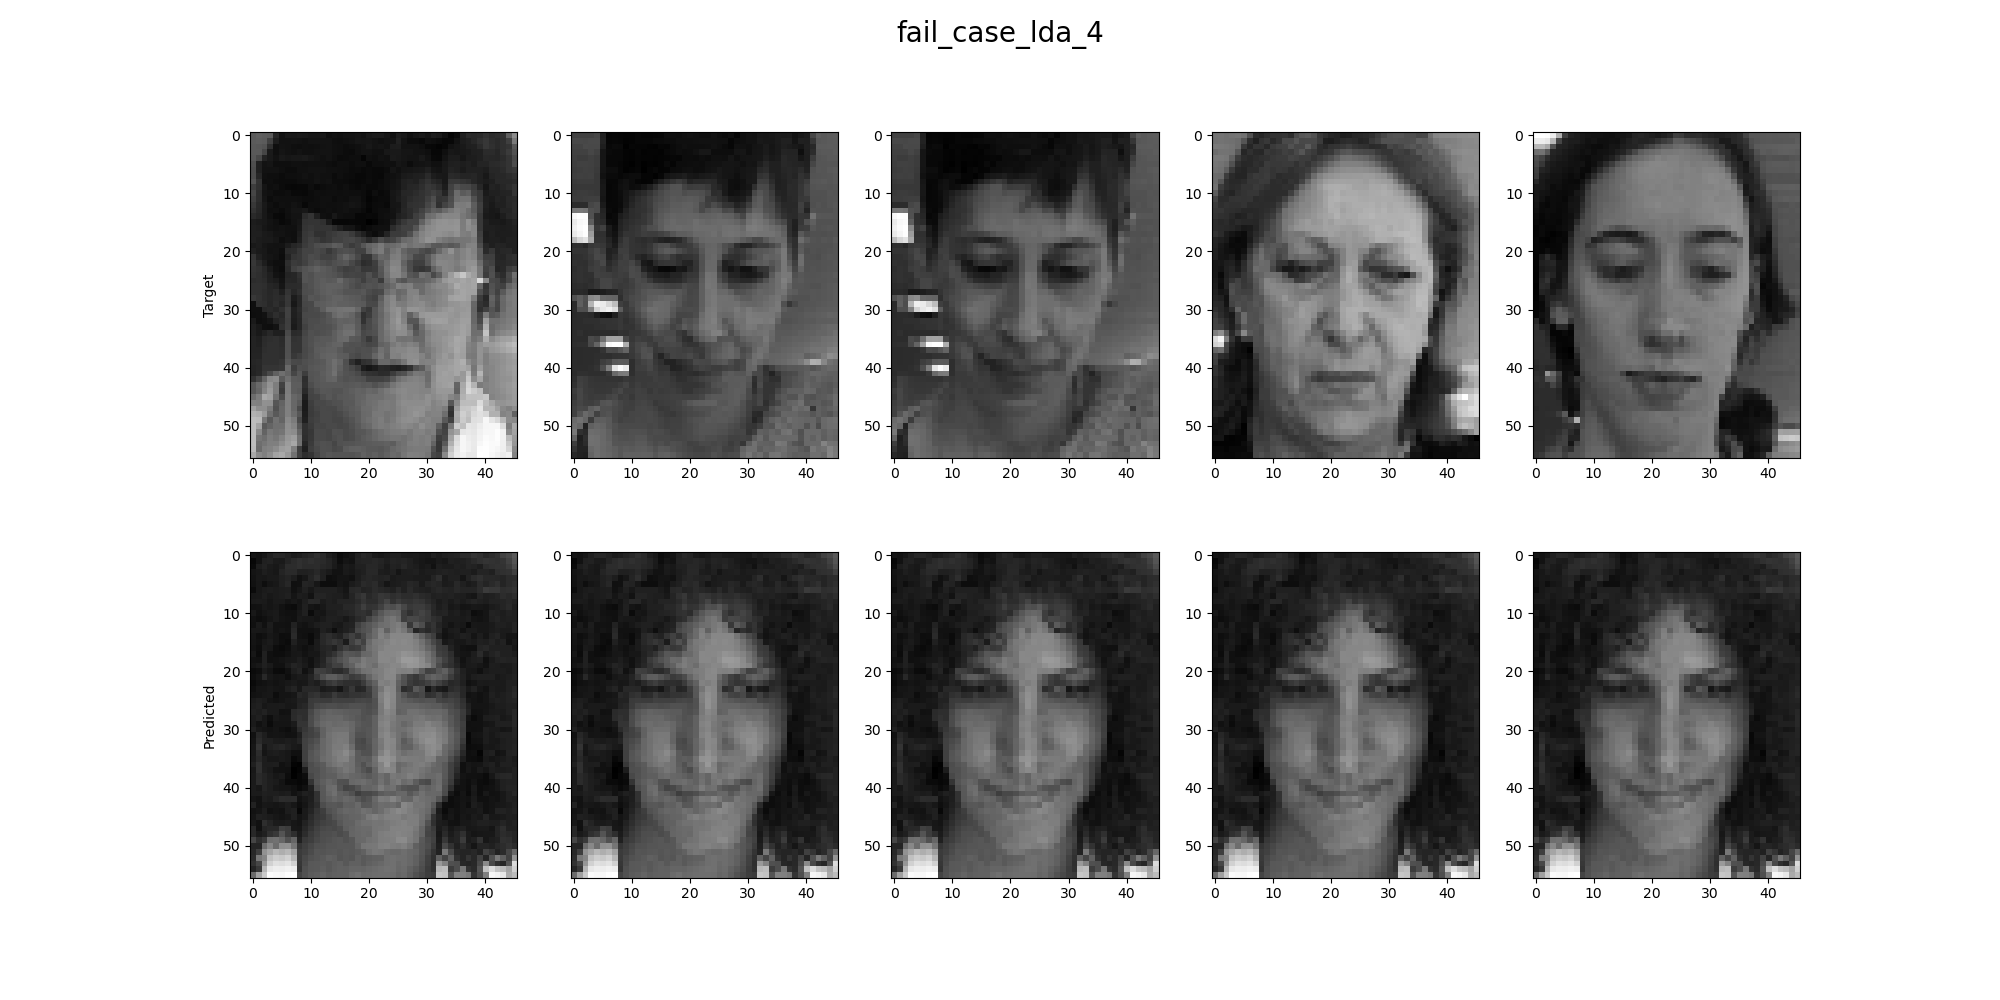
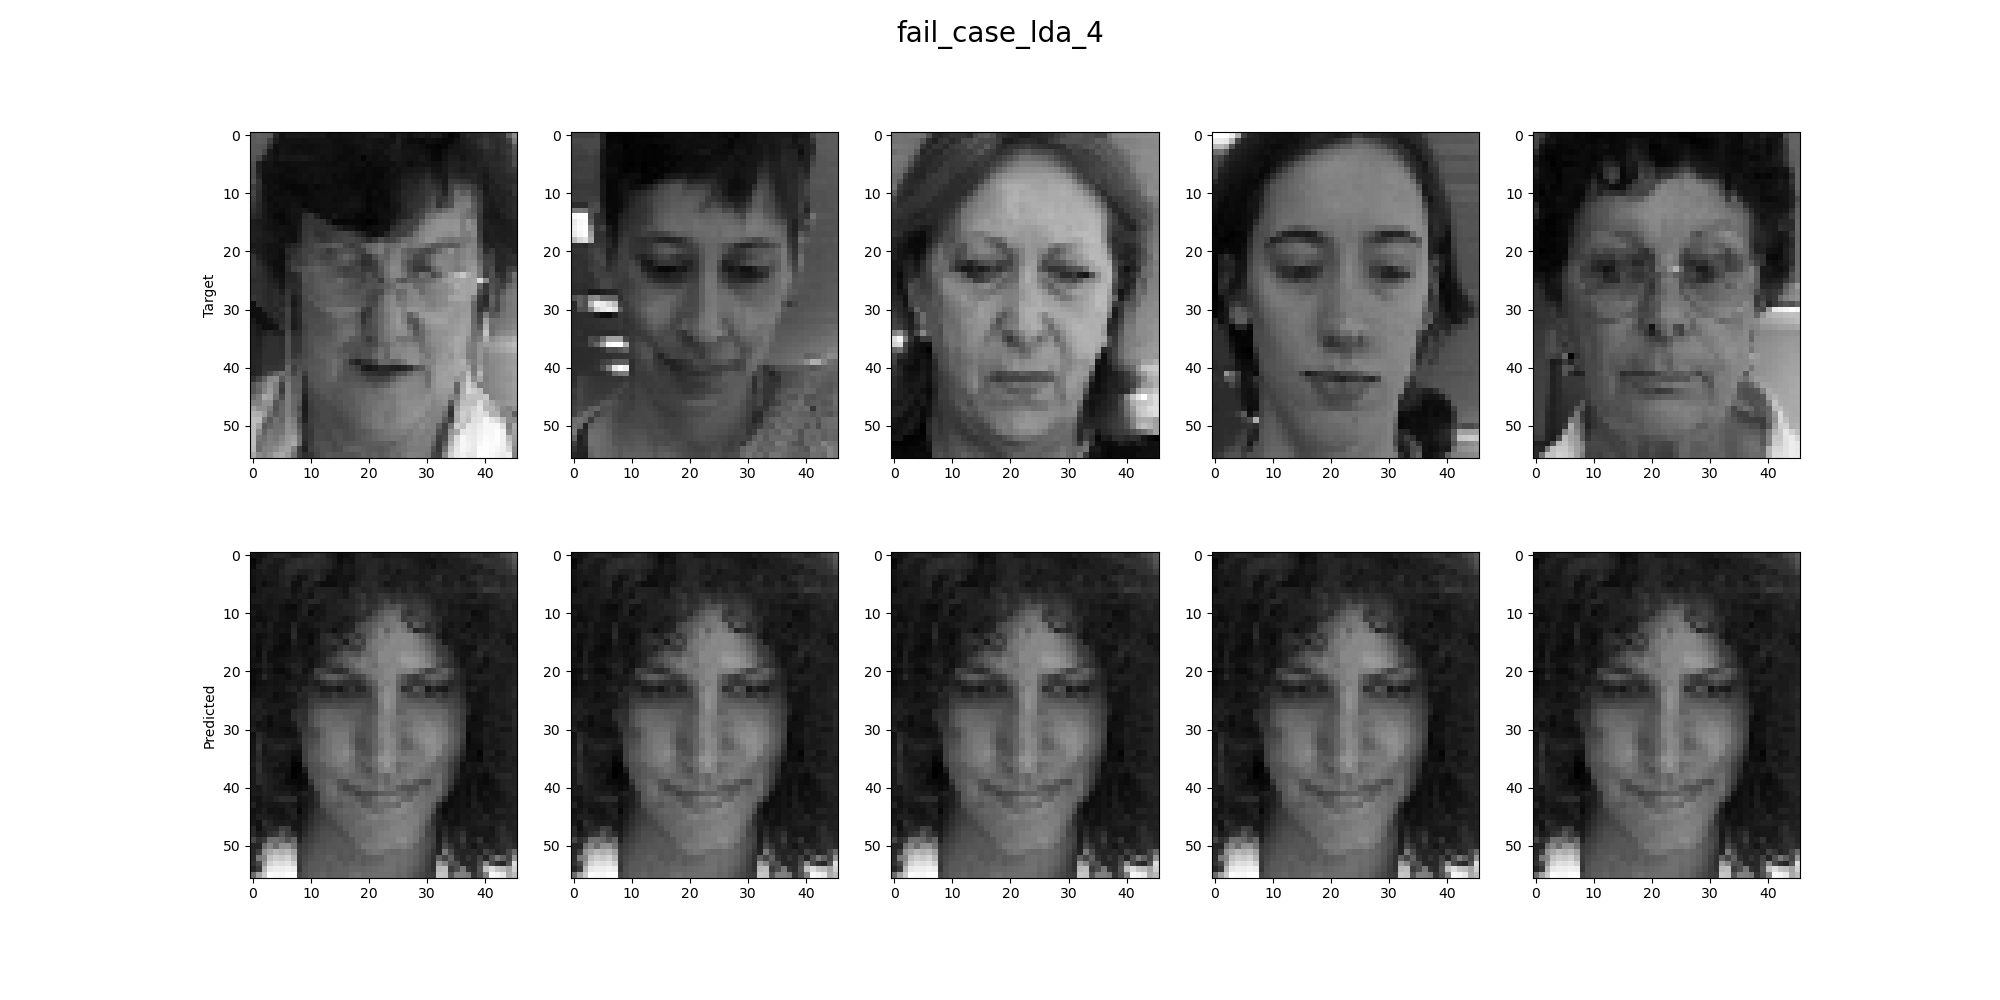
change Q3 for visualize

Changed region(s): [[0.434, 0.124, 0.899, 0.465]]

diff --git a/Q3/lda.py b/Q3/lda.py
@@ -1,6 +1,7 @@
 import warnings
 import time
 import numpy as np
+from numpy.core.fromnumeric import argsort
 from numpy.core.numeric import indices
 import psutil
 import os
@@ -21,27 +22,71 @@ from mpl_toolkits.mplot3d import Axes3D
 from einops import rearrange
 
 from utils.dataset import split_train_test
-from utils.visualize import visualize_face, visualize_faces, visualize_faces_with_row_label, visualize_graph, visualize_confusion_matrix
+from utils.visualize import visualize_face, visualize_faces, visualize_faces_with_row_label, visualize_graph, visualize_confusion_matrix, visualize_faces_with_x_label
 
 
 warnings.filterwarnings("ignore")
 
 
-def check_memory(title):
-    
-    print("== " + title)
-    # general RAM usage
-    memory_usage_dict = dict(psutil.virtual_memory()._asdict())
-    memory_usage_percent = memory_usage_dict['percent']
-    print(f"memory_usage_percent: {memory_usage_percent}%")
-    # current process RAM usage
-    pid = os.getpid()
-    current_process = psutil.Process(pid)
-    current_process_memory_usage_as_KB = current_process.memory_info()[0] / 2.**20
-    print(f"Current memory KB   : {current_process_memory_usage_as_KB: 9.3f} KB")
-    
-    print("--"*30)
+def check_memory(title=None):
+    if title is None:
+      pid = os.getpid()
+      current_process = psutil.Process(pid)
+      current_process_memory_usage_as_KB = current_process.memory_info()[0] / 2.**20
+      return current_process_memory_usage_as_KB
+    else:
+      print("== " + title)
+      # general RAM usage
+      memory_usage_dict = dict(psutil.virtual_memory()._asdict())
+      memory_usage_percent = memory_usage_dict['percent']
+      print(f"memory_usage_percent: {memory_usage_percent}%")
+      # current process RAM usage
+      pid = os.getpid()
+      current_process = psutil.Process(pid)
+      current_process_memory_usage_as_KB = current_process.memory_info()[0] / 2.**20
+      print(f"Current memory KB   : {current_process_memory_usage_as_KB: 9.3f} KB")
+      print("--"*30)
+      return current_process_memory_usage_as_KB
 
+
+
+def recognition_accuracy_pca(dataset):
+    x_train = dataset["train_faces"]
+    y_train = dataset["train_identities"]
+    x_test = dataset["test_faces"]
+    y_test = dataset["test_identities"]
+    sc = StandardScaler()
+    x_train = sc.fit_transform(x_train)
+    x_test = sc.transform(x_test)
+
+    test_accuracy = np.zeros((364))
+    train_accuracy = np.zeros((364))
+    x = np.linspace(1, 365, num=365)
+
+    for i_pca in range(1, 364):
+            # start_memory = check_memory("Vanilla_Before_Recognition")
+            """ 2. PCA """
+            pca = PCA(n_components=i_pca)
+            x_train_pca = pca.fit(x_train, y_train).transform(x_train)
+            x_test_pca = pca.transform(x_test)
+            # calculation_memory = check_memory("Vanilla_Before_Recognition")
+            clf_pca = KNeighborsClassifier()
+            clf_pca.fit(x_train_pca, y_train)
+            # recognition_cal_memory = check_memory("Vanilla_Before_Recognition") - start_memory
+            # recognition_memory = check_memory("Vanilla_Before_Recognition") - calculation_memory
+            train_accuracy[i_pca] = clf_pca.score(x_train_pca, y_train)
+            test_accuracy[i_pca] = clf_pca.score(x_test_pca, y_test)
+            # print(f"Recognition Memory :  {recognition_memory} KB")
+            # print(f"Recognition + Calculation Memory :  {recognition_cal_memory } KB")
+
+    plt.clf()
+    plt.plot(np.arange(364), np.array(train_accuracy))
+    plt.plot(np.arange(364), np.array(test_accuracy))
+    plt.xlabel('M_pca')
+    plt.ylabel('Recognition Accuracy')
+    plt.legend(['train', 'test'])
+    plt.savefig('figure_k_5/PCA Recognition Accuracy')
+    plt.show()
 
 
 def recognition_accuracy_lda(dataset):
@@ -57,31 +102,44 @@ def recognition_accuracy_lda(dataset):
     train_accuracy = np.zeros((52))
     x = np.linspace(1, 53, num=53)
 
-    for i_lda in range(1, 52):
+    for i_lda in range(51, 52):
+            start_memory = check_memory("Vanilla_Before_Recognition")
             """ 2. LDA """
             lda = LinearDiscriminantAnalysis(n_components=i_lda)
             x_train_lda = lda.fit(x_train, y_train).transform(x_train)
             x_test_lda = lda.transform(x_test)
-    
+            calculation_memory = check_memory("Vanilla_Before_Recognition")
             clf_lda = KNeighborsClassifier(n_neighbors=52)
             clf_lda.fit(x_train_lda, y_train)
+            recognition_cal_memory = check_memory("Vanilla_Before_Recognition") - start_memory
+            recognition_memory = check_memory("Vanilla_Before_Recognition") - calculation_memory
             train_accuracy[i_lda] = clf_lda.score(x_train_lda, y_train)
             test_accuracy[i_lda] = clf_lda.score(x_test_lda, y_test)
+            print(f"Recognition Memory :  {recognition_memory} KB")
+            print(f"Recognition + Calculation Memory :  {recognition_cal_memory } KB")
 
-    plt.clf()
-    plt.plot(np.arange(52), np.array(train_accuracy))
-    plt.plot(np.arange(52), np.array(test_accuracy))
-    plt.xlabel('M_lda')
-    plt.ylabel('Recognition Accuracy')
-    plt.legend(['train', 'test'])
-    plt.savefig('figures/LDA Recognition Accuracy')
-    plt.show()
+    # plt.clf()
+    # plt.plot(np.arange(52), np.array(train_accuracy))
+    # plt.plot(np.arange(52), np.array(test_accuracy))
+    # plt.xlabel('M_lda')
+    # plt.ylabel('Recognition Accuracy')
+    # plt.legend(['train', 'test'])
+    # plt.savefig('figure_k_5/LDA Recognition Accuracy')
+    # plt.show()
 
 def recognition_accuracies(dataset):
     x_train = dataset["train_faces"]
     y_train = dataset["train_identities"]
     x_test = dataset["test_faces"]
     y_test = dataset["test_identities"]
+        
+    # x_train = dataset["train_faces"][:56]
+    # y_train = dataset["train_identities"][:56]
+    # x_test = dataset["test_faces"][:14]
+    # y_test = dataset["test_identities"][:14]
+    
+        
+    
     sc = StandardScaler()
     x_train = sc.fit_transform(x_train)
     x_test = sc.transform(x_test)
@@ -92,9 +150,10 @@ def recognition_accuracies(dataset):
     y = np.linspace(1, 52, num=52)
     x, y = np.meshgrid(x, y)
 
-    for i_lda in range(1, 52, 10):
-        for i_pca in range(i_lda, 365, 10):
+    for i_lda in range(1, 52, 1):
+        for i_pca in range(i_lda, 365, 1):
             """ 1. PCA """
+            # i_pca = 364
             pca = PCA(n_components=i_pca)
             x_train_pca = pca.fit(x_train).transform(x_train)
             x_test_pca = pca.transform(x_test)
@@ -105,7 +164,7 @@ def recognition_accuracies(dataset):
             x_test_lda = lda.transform(x_test_pca)
     
             """ 3.3 PCA + LDA """
-            clf_lda = KNeighborsClassifier(n_neighbors=52)
+            clf_lda = KNeighborsClassifier()
             clf_lda.fit(x_train_lda, y_train)
             train_accuracy[i_lda][i_pca] = clf_lda.score(x_train_lda, y_train)
             test_accuracy[i_lda][i_pca] = clf_lda.score(x_test_lda, y_test)
@@ -119,9 +178,9 @@ def recognition_accuracies(dataset):
     ax = plt.subplot(1, 1, 1, projection='3d')
     ax.plot_surface(x, y, train_accuracy, alpha=0.3, color='blue', edgecolor='blue')
     plt.title('Train')
-    plt.xlabel('M_lda')
-    plt.ylabel('M_pca')
-    plt.savefig('Q3/figures/Train_Recognition_Accuracy.png')
+    plt.xlabel('M_pca')
+    plt.ylabel('M_lda')
+    plt.savefig('Q3/figures/Train_Recognition_Accuracy_.png')
     plt.show()
 
     plt.figure(figsize=(6, 6))
@@ -130,8 +189,9 @@ def recognition_accuracies(dataset):
     plt.title('Test')
     plt.xlabel('M_pca')
     plt.ylabel('M_lda')
-    plt.savefig('Q3/figures/Test_Recognition_Accuracy.png')
+    plt.savefig('Q3/figures/Test_Recognition_Accuracy_.png')
     plt.show()
+    plt.clf()
 
 
 if __name__ == '__main__':
@@ -155,9 +215,17 @@ if __name__ == '__main__':
     y_train = dataset["train_identities"]
     x_test = dataset["test_faces"]
     y_test = dataset["test_identities"]
-    
-    calculation_time = {}
 
+    # x_train = np.flip(x_train, axis=0)
+    # y_train = np.flip(y_train, axis=0)
+    # x_test = np.flip(x_test, axis=0)
+    # y_test = np.flip(y_test, axis=0)
+    # recognition_accuracies(dataset=dataset)
+    recognition_accuracy_pca(dataset=dataset)
+    x = []
+    x[1]
+    calculation_time = {}
+    
     """ 0. Normalize """
     x_train_original = x_train.copy()
     x_test_original = x_test.copy()
@@ -170,7 +238,7 @@ if __name__ == '__main__':
 
     """ 1. PCA """
     start = time.time()
-    pca = PCA(n_components=51)
+    pca = PCA(n_components=251)
     x_train_pca = pca.fit(x_train).transform(x_train)  # N, Mpca 
     x_test_pca = pca.transform(x_test)
     calculation_time['pca'] = time.time() - start
@@ -217,7 +285,7 @@ if __name__ == '__main__':
     scatter_lda = np.fix(scatter_lda)
     rank_scatter_LDA = np.linalg.matrix_rank(scatter_lda)
 
-
+    
     """ 3. NN Classification """
     """ 3.1 Vanilla """
     check_memory("Vanilla_Before_Recognition")
@@ -246,7 +314,7 @@ if __name__ == '__main__':
 
     """ 3.1.2 Confusion Matrix """
     if args.vis:
-        visualize_confusion_matrix(y_test, prediction, 'Recognition_Vanilla')
+      visualize_confusion_matrix(y_test, prediction, 'Recognition_Vanilla')
     
 
     """ 3.2 PCA """
@@ -280,7 +348,7 @@ if __name__ == '__main__':
     """ 3.3 PCA + LDA """
     check_memory("LDA_Before_Recognition")
     start = time.time()
-    clf_lda = KNeighborsClassifier(n_neighbors=52)
+    clf_lda = KNeighborsClassifier()
     clf_lda.fit(x_train_lda, y_train)
     prediction_lda = clf_lda.predict(x_test_lda)
     calculation_time['clf_lda'] = time.time() - start
@@ -303,14 +371,20 @@ if __name__ == '__main__':
     fail_case = np.where(prediction_lda == 4)[0]
     fail_indices_target = (fail_case // 2) + 1
     fail_images = np.concatenate([x_test_original[2*fail_indices_target[2:7]-1], x_test_original[2*prediction_lda[fail_case[2:7]]-1]], axis=0)
-    # if args.vis:  
-    visualize_faces_with_row_label(faces=fail_images, n=1, title="fail_case_lda_4", cols=5, rows=2, rows_label=['Target', 'Predicted'])
-    # visualize_face(x_test_original[6])  #identity 4
+    if args.vis:  
+      visualize_faces_with_row_label(faces=fail_images, n=1, title="fail_case_lda_4", cols=5, rows=2, rows_label=['Target', 'Predicted'])
+      visualize_face(x_test_original[6])  #identity 4
+      visualize_faces_with_x_label(np.array(x_test_original[2*fail_indices_target-1]), title='predicted_to_ID4', n=1, cols=6, rows=3, x_label=fail_indices_target)  #identity 4
+    
     """ 3.3.2 Confusion Matrix """
     if args.vis:  
       visualize_confusion_matrix(y_test, prediction_lda, 'Recognition_LDA')
-
-
+    # t = lda.explained_variance_ratio_
+    # sort_indices = np.argsort(t)
+    eigenvectors = lda.scalings_[:, :n_components]
+    # visualize_faces(eigenvectors)
+    # .T
+    
     # target = np.array(max_accuracy_target)[indices]
     # target_reconstructed = average_face + (target @ max_accuracy_eigenvectors.T) @ max_accuracy_eigenvectors
     # nearest_neighbor = np.array(max_accuracy_nn)[indices]

diff --git a/Q3/utils/visualize.py b/Q3/utils/visualize.py
@@ -1,4 +1,5 @@
 from matplotlib import pyplot as plt
+from numpy.core.defchararray import not_equal
 from scipy import io
 from sklearn.metrics import confusion_matrix
 import numpy as np
@@ -14,7 +15,7 @@ def visualize_graph(x_axis, y_axes, xlabel, ylabel, legend, title=None):
 
     if title is not None:
         plt.title(title)
-        plt.savefig(f"figures/{title.replace(' ', '_').lower()}.png")
+        plt.savefig(f"figure_k_5/{title.replace(' ', '_').lower()}.png")
     else:
         plt.show()
 
@@ -29,7 +30,7 @@ def visualize_confusion_matrix(y_test, prediction, title):
     plt.xlabel('Predicted')
     plt.ylabel('Target')
     plt.title(title)
-    plt.savefig("figures/" + title + ".png")
+    plt.savefig("figure_k_5/" + title + ".png")
     # plt.show()
 
 def visualize_face(face, shape=(46, 56), title=None):
@@ -38,7 +39,7 @@ def visualize_face(face, shape=(46, 56), title=None):
 
     if title is not None:
         plt.title(title)
-        plt.savefig("figures/" + title + ".png")
+        plt.savefig("figure_k_5/" + title + ".png")
     else:
         plt.show()
 
@@ -76,7 +77,47 @@ def visualize_faces(faces, n=1, shape=(46, 56), random=False, identities=None, t
             plt.imshow(face, cmap='gray')
 
         if title:
-          plt.savefig("figures/" + title + ".png")
+          plt.savefig("figure_k_5/" + title + ".png")
+        else:
+            plt.show()
+
+    plt.close()
+
+
+def visualize_faces_with_x_label(faces, n=1, shape=(46, 56), random=False, identities=None, title=None, cols=5, rows=2, x_label=None):
+    if identities is not None:
+        assert faces.shape[0] == identities.shape[0], print("length of faces and identities are different")
+
+    for i in range(n):
+
+        axes = []
+        fig = plt.figure(figsize=(20, 10), dpi=100)
+        if title is not None:
+            fig.suptitle(title, fontsize=20)
+
+        n = rows * cols
+        if faces.shape[0] < n:
+            indices = np.arange(faces.shape[0])
+        else:
+            if random:
+                indices = np.random.choice(faces.shape[0], n, replace=False)
+            else:
+                indices = n * i + np.arange(n)
+
+        for pos, idx in enumerate(indices):
+            face = np.swapaxes(np.reshape(faces[idx], shape), 0, 1)
+            axes.append(fig.add_subplot(rows, cols, pos+1))
+
+            if x_label is not None:
+              axes[-1].set_xlabel(f"ID {x_label[idx]}")
+            if identities is not None:
+                identity = str(identities[idx])
+                axes[-1].set_title(identity)
+
+            plt.imshow(face, cmap='gray')
+
+        if title:
+          plt.savefig("figure_k_5/" + title + ".png")
         else:
             plt.show()
 
@@ -124,7 +165,7 @@ def visualize_faces_with_row_label(faces, n=1, shape=(46, 56), random=False, ide
             plt.imshow(face, cmap='gray')
 
         if title:
-            plt.savefig(f"figures/{title.replace(' ', '_').lower()}.png")
+            plt.savefig(f"figure_k_5/{title.replace(' ', '_').lower()}.png")
         else:
             plt.show()
 
